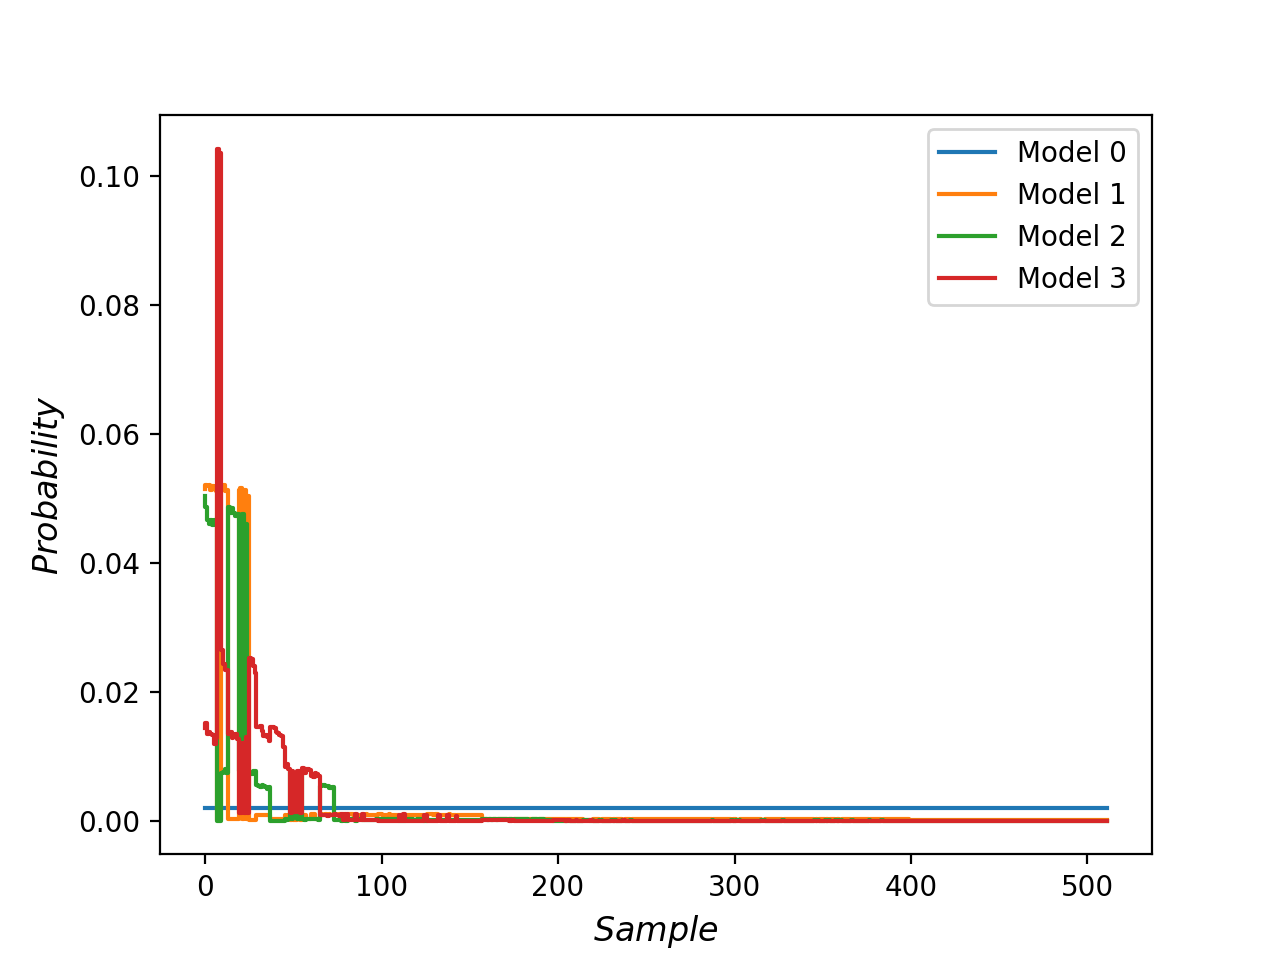
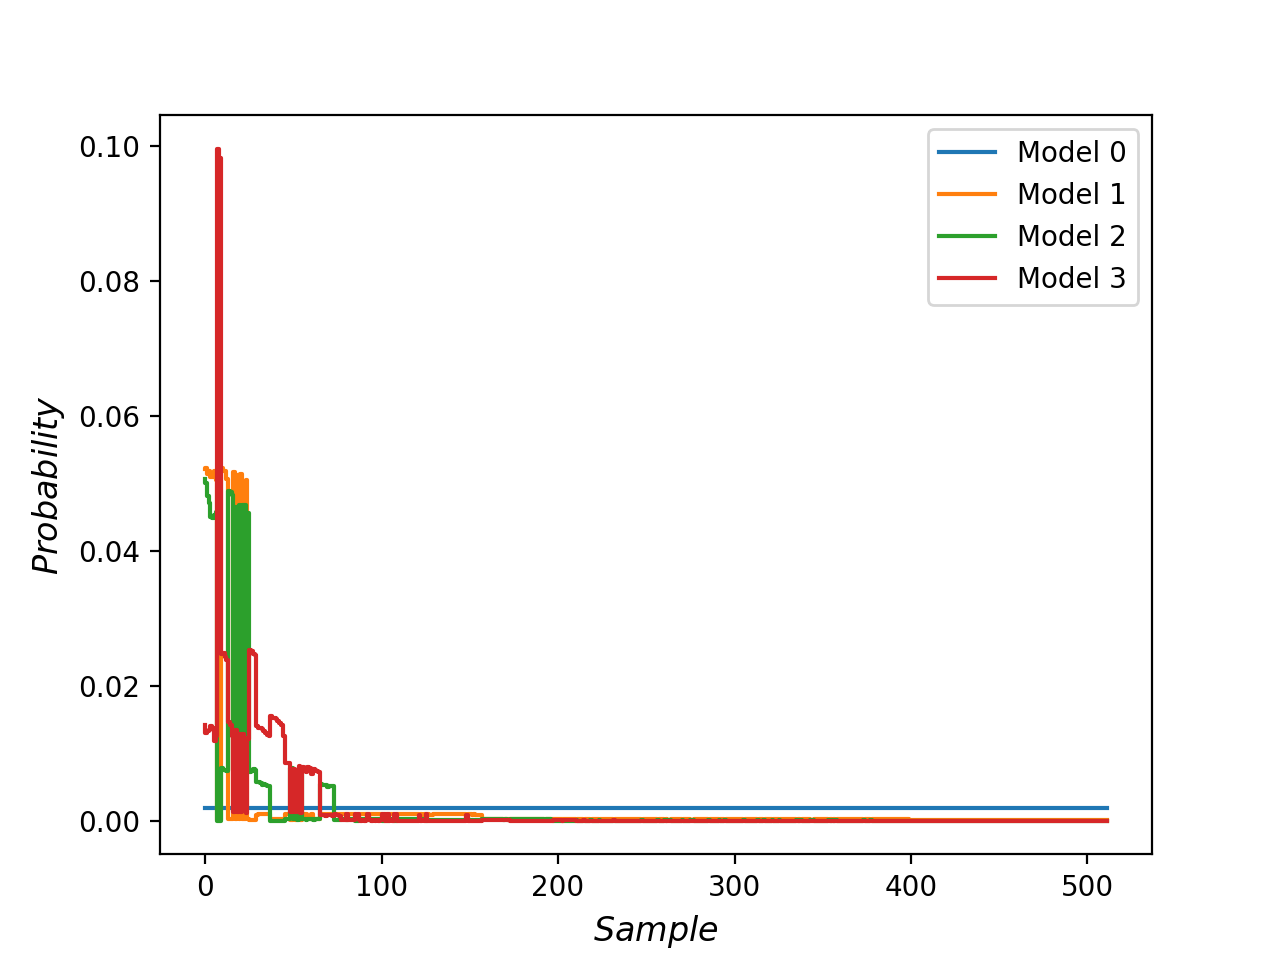
Assignment 1 finished

diff --git a/Assignments/A1/Practical/Practice3.py b/Assignments/A1/Practical/Practice3.py
@@ -44,13 +44,13 @@ def M1(dataset, param):
     for i in range(dataset.shape[0]):
         for j in range(dataset.shape[1]):
             
-            x = 0
-            if i == 0:
-                x = -1
-            elif i == 2:
-                x = 1
+            x1 = 0
+            if j == 0:
+                x1 = -1
+            elif j == 2:
+                x1 = 1
 
-            result *= (1 / (1 + exp(-dataset[i][j] * param * x)))
+            result *= (1 / (1 + exp(-dataset[i][j] * param * x1)))
             
     return result
 
@@ -62,14 +62,14 @@ def M2(dataset, param1, param2):
 
             x1 = 0
             x2 = 0
-            if i == 0:
+            if j == 0:
                 x1 = -1
-            elif i == 2:
+            elif j == 2:
                 x1 = 1
-            if j == 2:
-                x2 = -1
-            elif j == 0:
+            if i == 0:
                 x2 = 1
+            elif i == 2:
+                x2 = -1
 
             result *= (1 / (1 + exp(-dataset[i][j] * (param1 * x1 + param2 * x2))))
             
@@ -83,49 +83,41 @@ def M3(dataset, param1, param2, param3):
 
             x1 = 0
             x2 = 0
-            if i == 0:
+            if j == 0:
                 x1 = -1
-            elif i == 2:
+            elif j == 2:
                 x1 = 1
-            if j == 2:
-                x2 = -1
-            elif j == 0:
+            if i == 0:
                 x2 = 1
+            elif i == 2:
+                x2 = -1
 
             result *= (1 / (1 + exp(-dataset[i][j] * (param1 * x1 + param2 * x2 + param3))))
             
     return result
 
-def getParameter(model):
-    #mean = np.zeros(model)
-    mean = 5 * np.ones(model) #Uncoment for mean 5
-    variance = pow(10,2) * np.identity(model)
-    #variance = np.random.rand(model,model)
-    #variance = pow(10,2) * np.dot(variance, np.transpose(variance)) Uncoment for semi-definite random covariance
-    return np.random.multivariate_normal(mean,variance)
+def getDistribution():
+    mean = np.zeros(3)
+    #mean = 5 * np.ones(3) #Uncoment for mean 5
+    #variance = pow(10,2) * np.identity(3)
+    variance = np.random.rand(3,3) #Uncoment for semi-definite random covariance
+    variance = pow(10,2) * np.dot(variance, np.transpose(variance)) #Uncoment for semi-definite random covariance
+    
+    return mean, variance
 
-def computeModels(results, dataset, i):
+def computeModels(results, dataset, i, mean, variance):
 
-    results[i][0] = 1/512
+    results[i][0] = M0()
 
-    for j in range(1, results.shape[1]):
-        for k in (range(ITERATIONS)):          
-            if j == 1:
-                theta = getParameter(j)
-                results[i][j] += M1(dataset, theta)
-                continue
+    for k in (range(ITERATIONS)):          
+        theta = np.random.multivariate_normal(mean,variance)
+        results[i][1] += M1(dataset, theta[0])
+        results[i][2] += M2(dataset, theta[0], theta[1])
+        results[i][3] += M3(dataset, theta[0], theta[1], theta[2])
 
-            elif j == 2:
-                theta = getParameter(j)
-                results[i][j] += M2(dataset, theta[0], theta[1])
-                continue
-
-            else:
-                theta = getParameter(j)
-                results[i][j] += M3(dataset, theta[0], theta[1], theta[2])
-                continue
-
-        results[i][j] = results[i][j] / ITERATIONS
+    results[i][1] = results[i][1] / ITERATIONS
+    results[i][2] = results[i][2] / ITERATIONS
+    results[i][3] = results[i][3] / ITERATIONS
 
     return results[i]
 
@@ -142,9 +134,9 @@ for i in range(len(dataset)):
     dataset[i] = np.reshape(np.array(dataset[i]), (3,3))
 
 results = np.zeros((len(dataset), 4))
-
+mean, variance = getDistribution()
 num_cores = multiprocessing.cpu_count() # Parallel code for computing models avg. probabilities
-results = Parallel(n_jobs=num_cores)(delayed(computeModels)(results, dataset[i], i) for i in tqdm(range(results.shape[0])))
+results = Parallel(n_jobs=num_cores)(delayed(computeModels)(results, dataset[i], i, mean, variance) for i in tqdm(range(results.shape[0])))
 
 results = np.transpose(results)
 evidence_sum = np.zeros(shape=(results.shape[1]))
